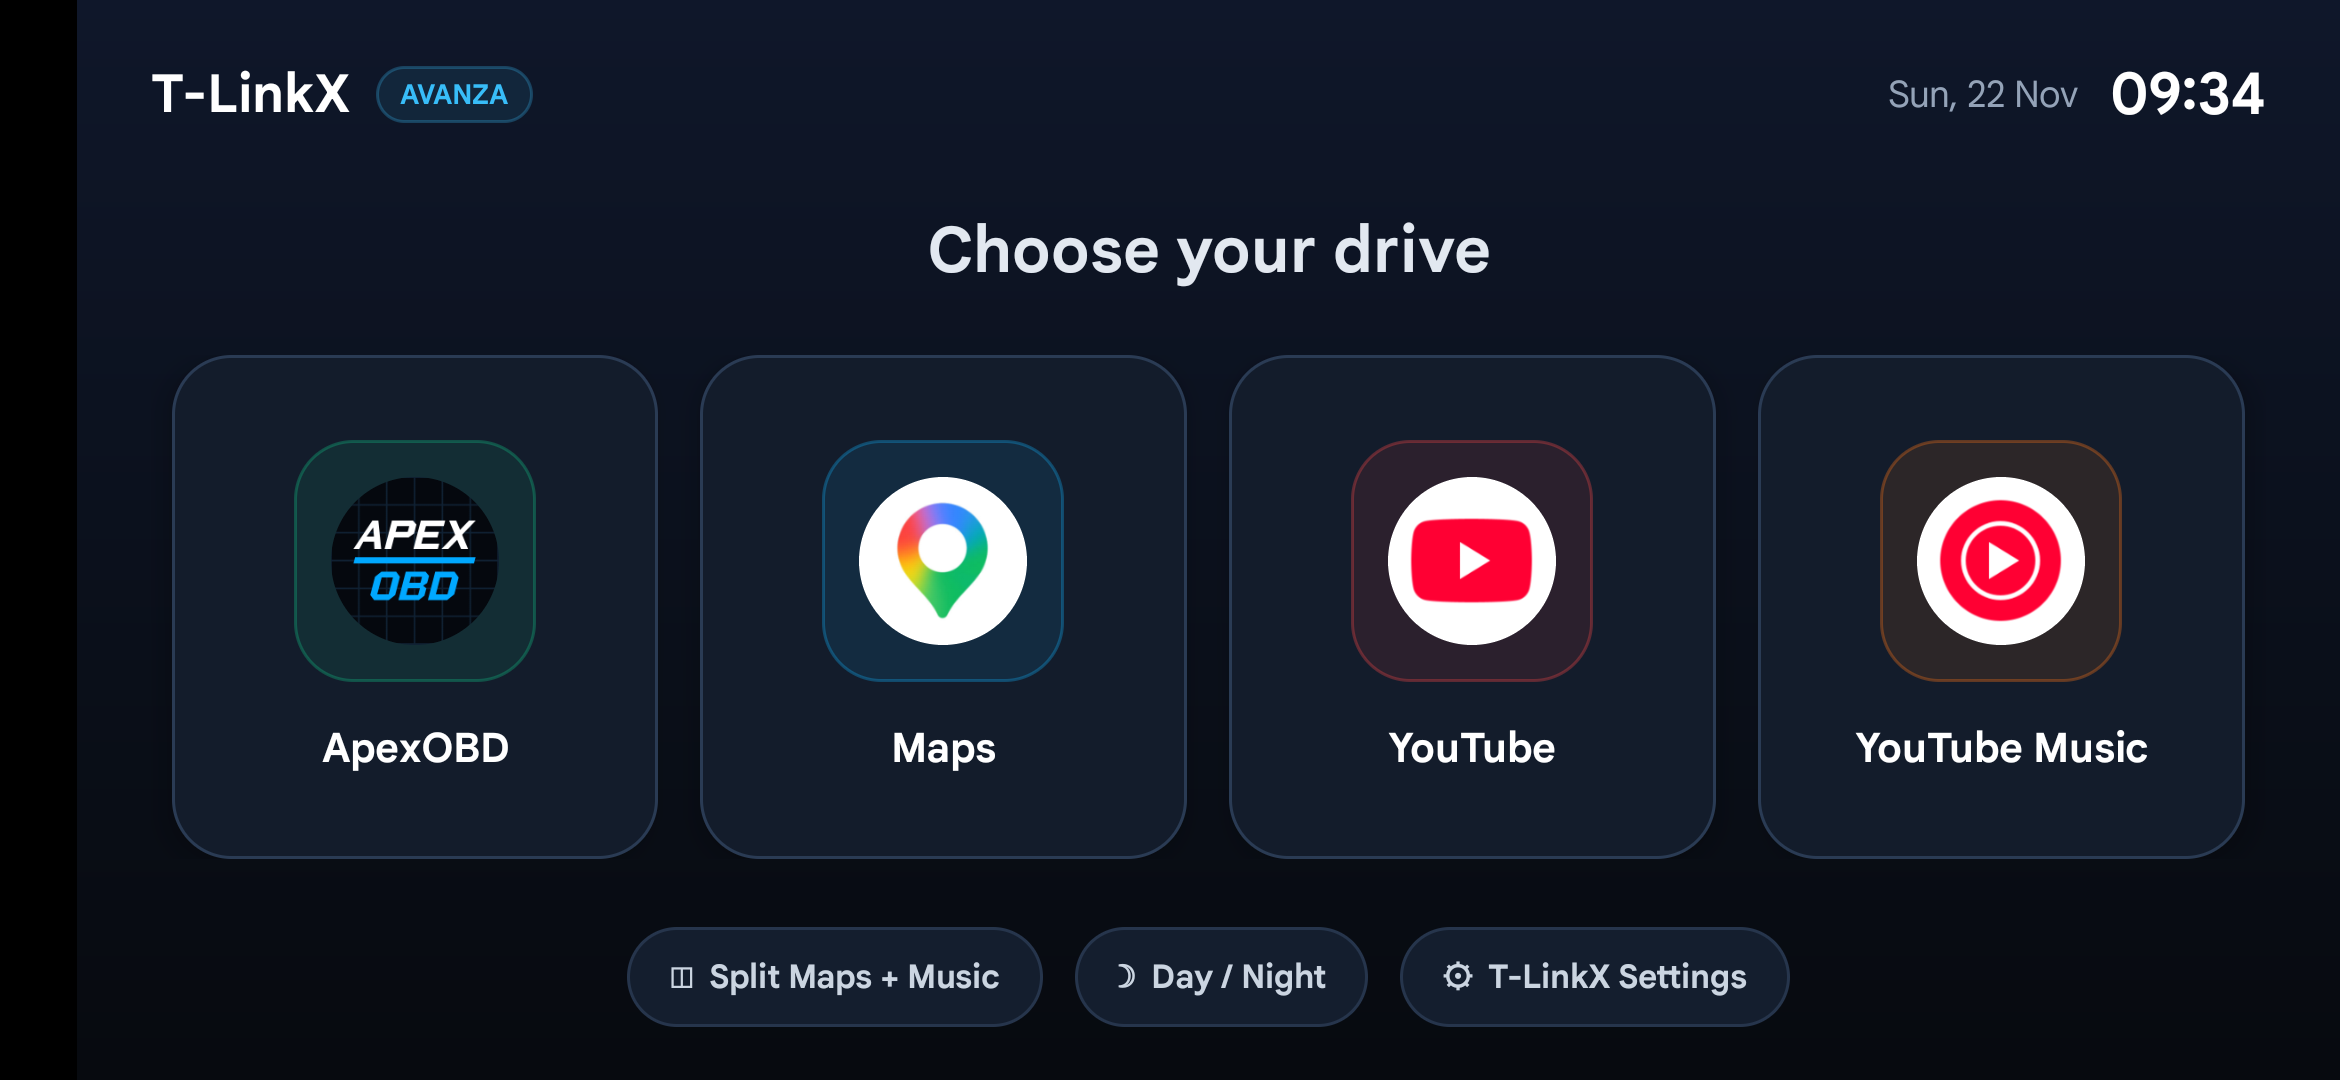
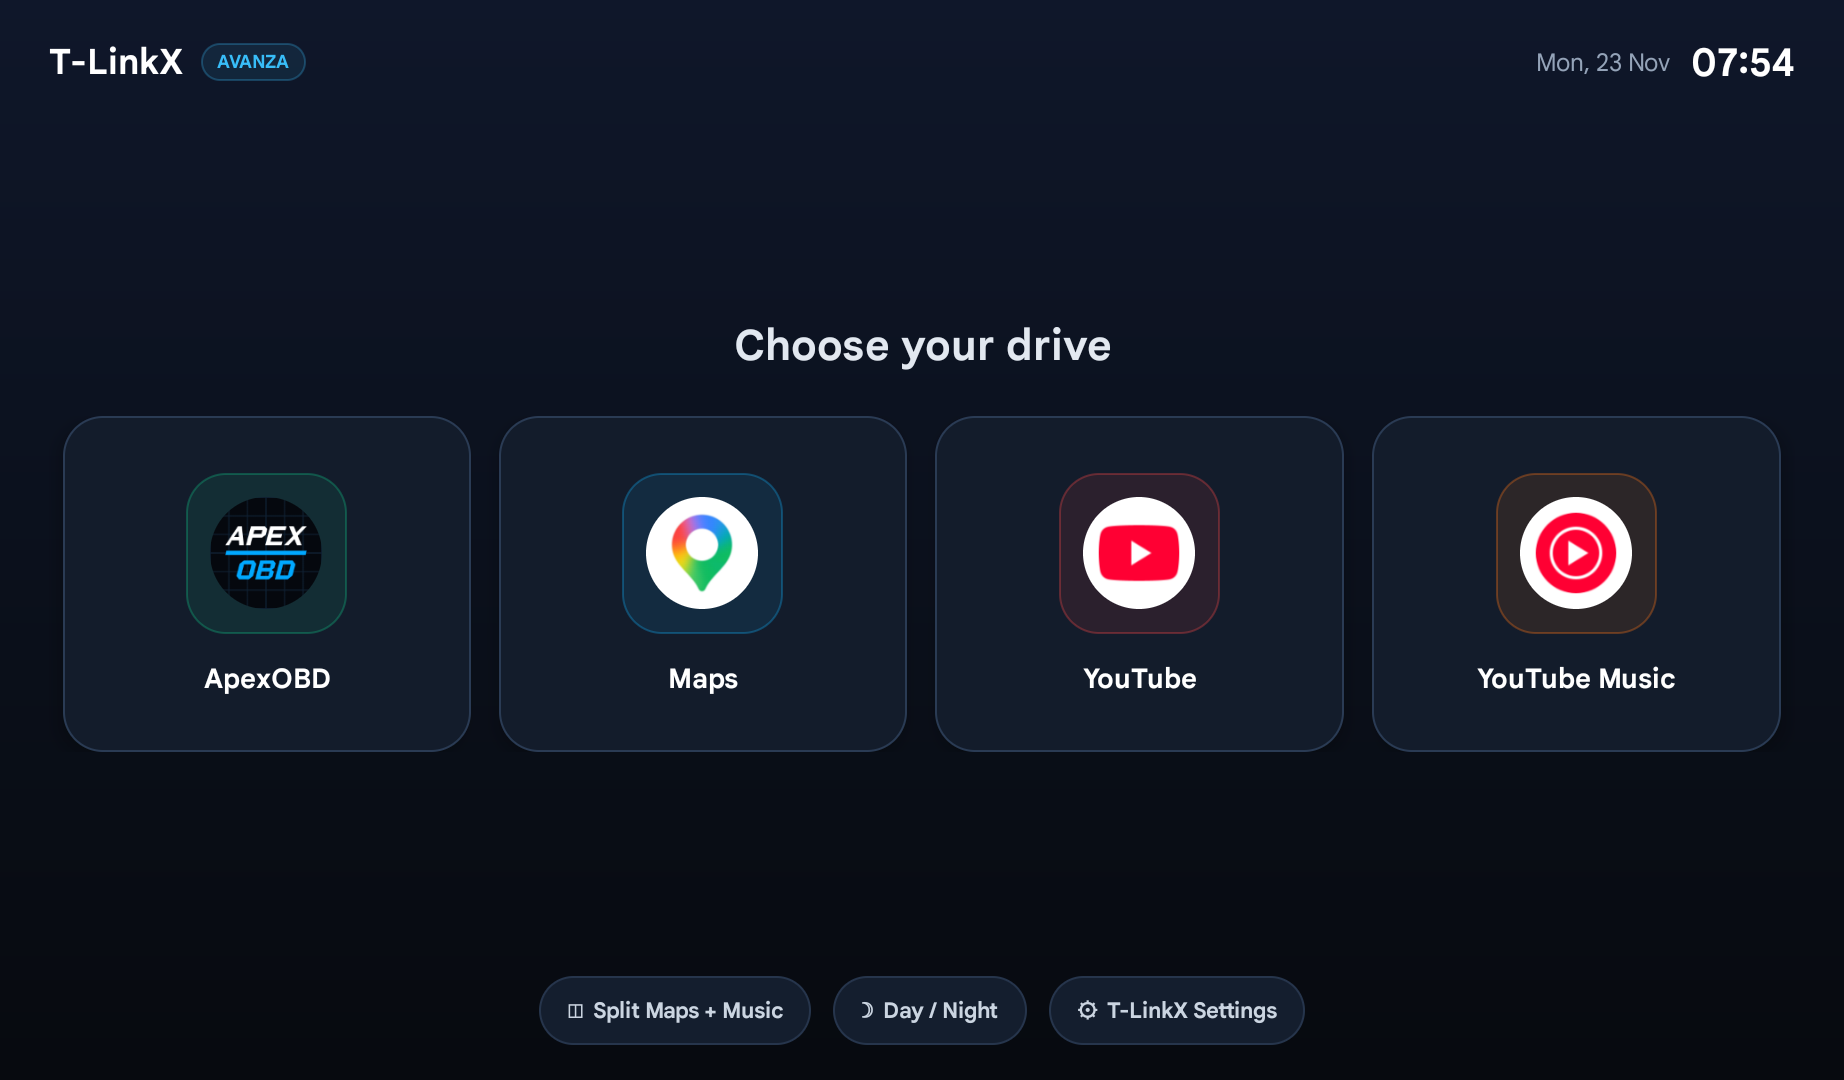
fix(ui): extend Car Home into display cutout for edge-to-edge layout

diff --git a/apps/tlinkx-companion/src/com/tlinkx/companion/CarLauncherActivity.java b/apps/tlinkx-companion/src/com/tlinkx/companion/CarLauncherActivity.java
@@ -7,6 +7,7 @@ import android.graphics.Color;
 import android.graphics.Typeface;
 import android.graphics.drawable.GradientDrawable;
 import android.graphics.drawable.RippleDrawable;
+import android.os.Build;
 import android.os.Bundle;
 import android.os.Handler;
 import android.os.Looper;
@@ -15,6 +16,7 @@ import android.view.Gravity;
 import android.view.View;
 import android.view.ViewGroup;
 import android.view.Window;
+import android.view.WindowManager;
 import android.widget.ImageView;
 import android.widget.LinearLayout;
 import android.widget.TextView;
@@ -74,11 +76,20 @@ public class CarLauncherActivity extends Activity {
 
     private void setupImmersiveWindow() {
         Window w = getWindow();
-        w.setStatusBarColor(Color.parseColor("#070A0F"));
-        w.setNavigationBarColor(Color.parseColor("#070A0F"));
+        WindowManager.LayoutParams lp = w.getAttributes();
+        if (Build.VERSION.SDK_INT >= 30) {
+            lp.layoutInDisplayCutoutMode = WindowManager.LayoutParams.LAYOUT_IN_DISPLAY_CUTOUT_MODE_ALWAYS;
+        } else {
+            lp.layoutInDisplayCutoutMode = WindowManager.LayoutParams.LAYOUT_IN_DISPLAY_CUTOUT_MODE_SHORT_EDGES;
+        }
+        w.setAttributes(lp);
+        w.setStatusBarColor(Color.TRANSPARENT);
+        w.setNavigationBarColor(Color.TRANSPARENT);
         w.getDecorView().setSystemUiVisibility(
                 View.SYSTEM_UI_FLAG_LAYOUT_STABLE
+                        | View.SYSTEM_UI_FLAG_LAYOUT_HIDE_NAVIGATION
                         | View.SYSTEM_UI_FLAG_LAYOUT_FULLSCREEN
+                        | View.SYSTEM_UI_FLAG_HIDE_NAVIGATION
                         | View.SYSTEM_UI_FLAG_FULLSCREEN
                         | View.SYSTEM_UI_FLAG_IMMERSIVE_STICKY);
     }
